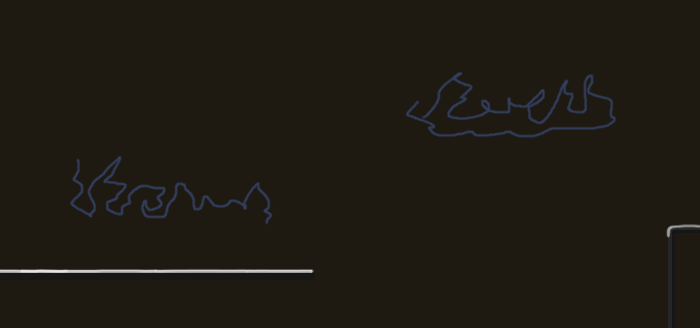
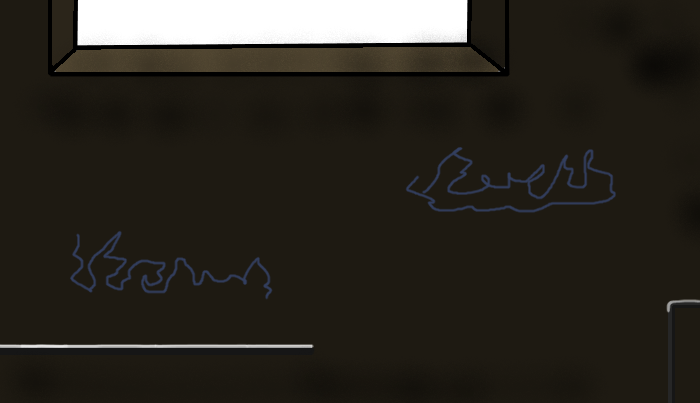
made background prettier

diff --git a/js/playerfunctions.js b/js/playerfunctions.js
@@ -212,19 +212,6 @@ class Ninja {
                 
                 countEnemy1++; //counts tier 1 enemy spawns.
             }
-
-            // if(countEnemy1 >= 3 && countEnemy1 < enemy1.maxenemy1count && countEnemy1 < 5){
-            //     enemy1.createEnemy1(random(enemyStartPosX), PosY);
-            //     enemy1.createEnemy1(random(enemyStartPosX), PosY);
-            //     countEnemy1 += 2;
-            // }
-
-            // if(countEnemy1 >= 5 && countEnemy1 < enemy1.maxenemy1count){
-            //     enemy1.createEnemy1(random(enemyStartPosX), PosY);
-            //     enemy1.createEnemy1(random(enemyStartPosX), PosY);
-            //     enemy1.createEnemy1(random(enemyStartPosX), PosY);
-            //     countEnemy1 += 3;
-            // }
         }
 
         if (enemy1.enemyGroupOne.length == 0 && countEnemy1 > enemy1.maxenemy1count -1  && countEnemy2 < 1) {
@@ -252,7 +239,7 @@ class Ninja {
             enemy3.enemySprite.remove();
             enemyB.createEnemyB(random(enemyStartPosX), PosY); //spawns boss
             bossSpawned = true;
-            makeHealthPack(enemy1.enemySprite.position.x, height - 15);
+            makeHealthPack(W/2, height - 15);
         }
 
         if (enemyB.enemySprite.hp <= 0) { //checks if boss hits 0 hp

diff --git a/js/scene.js b/js/scene.js
@@ -16,18 +16,7 @@ function loadScenePics() {
 
 function testScene() {
     background(25,29,88); 
-    image(bgWstuff, x2, 75, W, H - 75);
-    image(bgWcity, x1, 75, W, H - 75);
-    image(bgWOstuff, x3, 75, W, H - 75);
-    noStroke();
-    fill(25,29,88);
-    rect(0, 0, width, 75);
     image(bgMoon, width / 2, 0);
-    image(bgDoor, x2 + (width - (width / 3)), height - (height / 3.5));
-    image(aircon, x2 + (width/2 - 150), height / 3.5);
-
-
-
     for(let i = 0; i < clouds.length; i++){
         image(clouds[i], cloudX[i], cloudY[i]);
         cloudX[i] -= scrollSpeed/4;  
@@ -36,12 +25,24 @@ function testScene() {
         } 
     }
 
+    image(bgWstuff, x2, 0, W, H);
+    image(bgWcity, x1, 0, W, H);
+    image(bgWOstuff, x3, 75, W, H - 75);
+    image(bgDoor, x2 + (width - (width / 3)), height - (height / 3.5));
+    image(aircon, x2 + (width/2 - 150), height / 3.5);
+
+
+
+
 
     if (x1 < -width) {
         x1 = width;
     }
     if (x2 < -width) {
         x2 = width;
+    }
+    if(x3 < -(width*2)) {
+        x3 = -width;
     }
 
 }

diff --git a/js/main.js b/js/main.js
@@ -342,6 +342,7 @@ function resetGame() {//a function to call when return to main menu after game o
  
   ninja.ninjaSprite.hp = 250;//reset ninja health change when finalised
   ninja.ninjaAttackOn = false;
+  bossSpawned = false;
   enemy1.enemySprite.changeAnimation('runEast1');//reset enemy to idle
   enemy2.enemySprite.changeAnimation('runEast2');
   enemy3.enemySprite.changeAnimation('runEast3');
